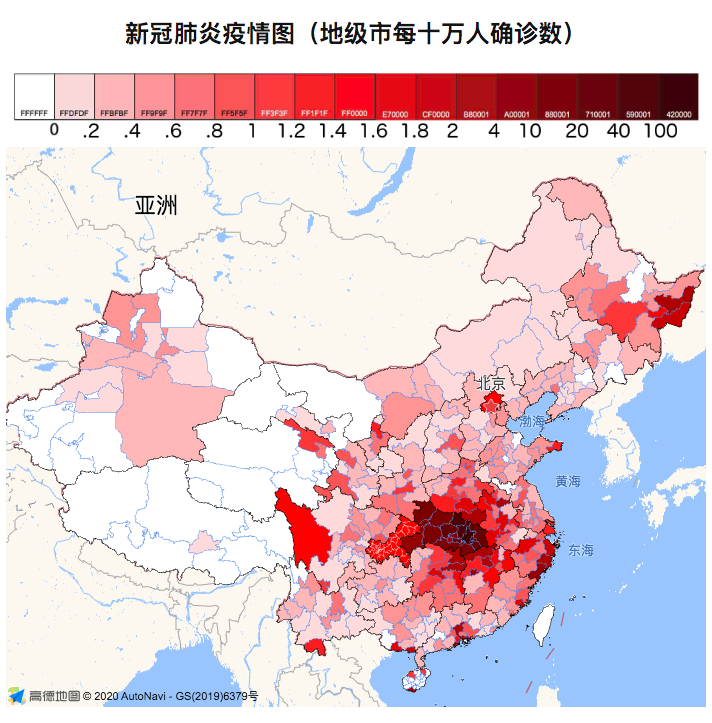
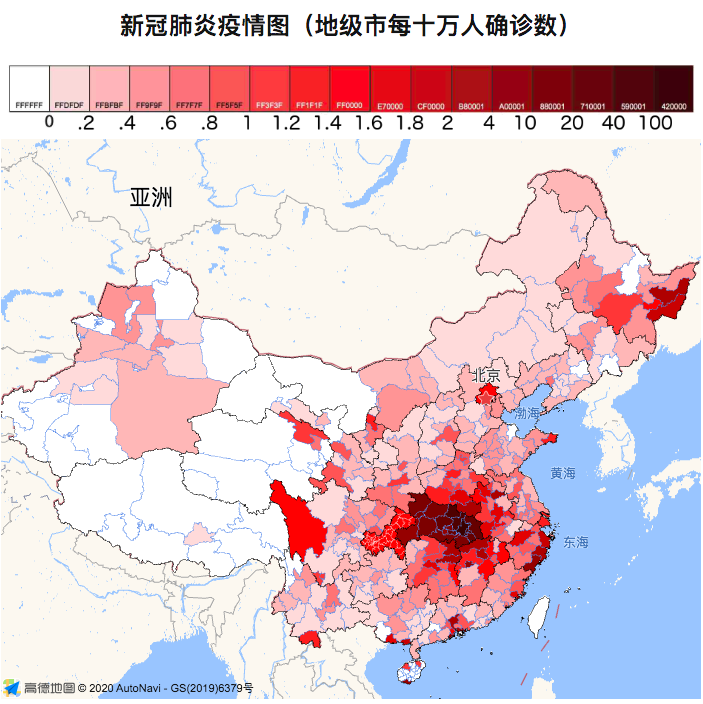
fix shandong two cities bug for amap

diff --git a/src/pplt_ratio.js b/src/pplt_ratio.js
@@ -231,13 +231,15 @@ document.addEventListener('DOMContentLoaded', function() {
     initVirusMap();
   });
   */
+    city_dict['邳州市'] = city_dict['徐州市'];
+    city_dict['莱芜市'] = city_dict['济南市'];
     console.log(city_dict);
+
     initVirusMap();
     //confirmedCount = getConfirmedCount(data);
     // fix some bugs of AMap
     //confirmedCount.set('邳州市', confirmedCount.get('徐州市'));
     //confirmedCount.set('莱芜市', confirmedCount.get('济南市'));
     //});
-
 
 });
